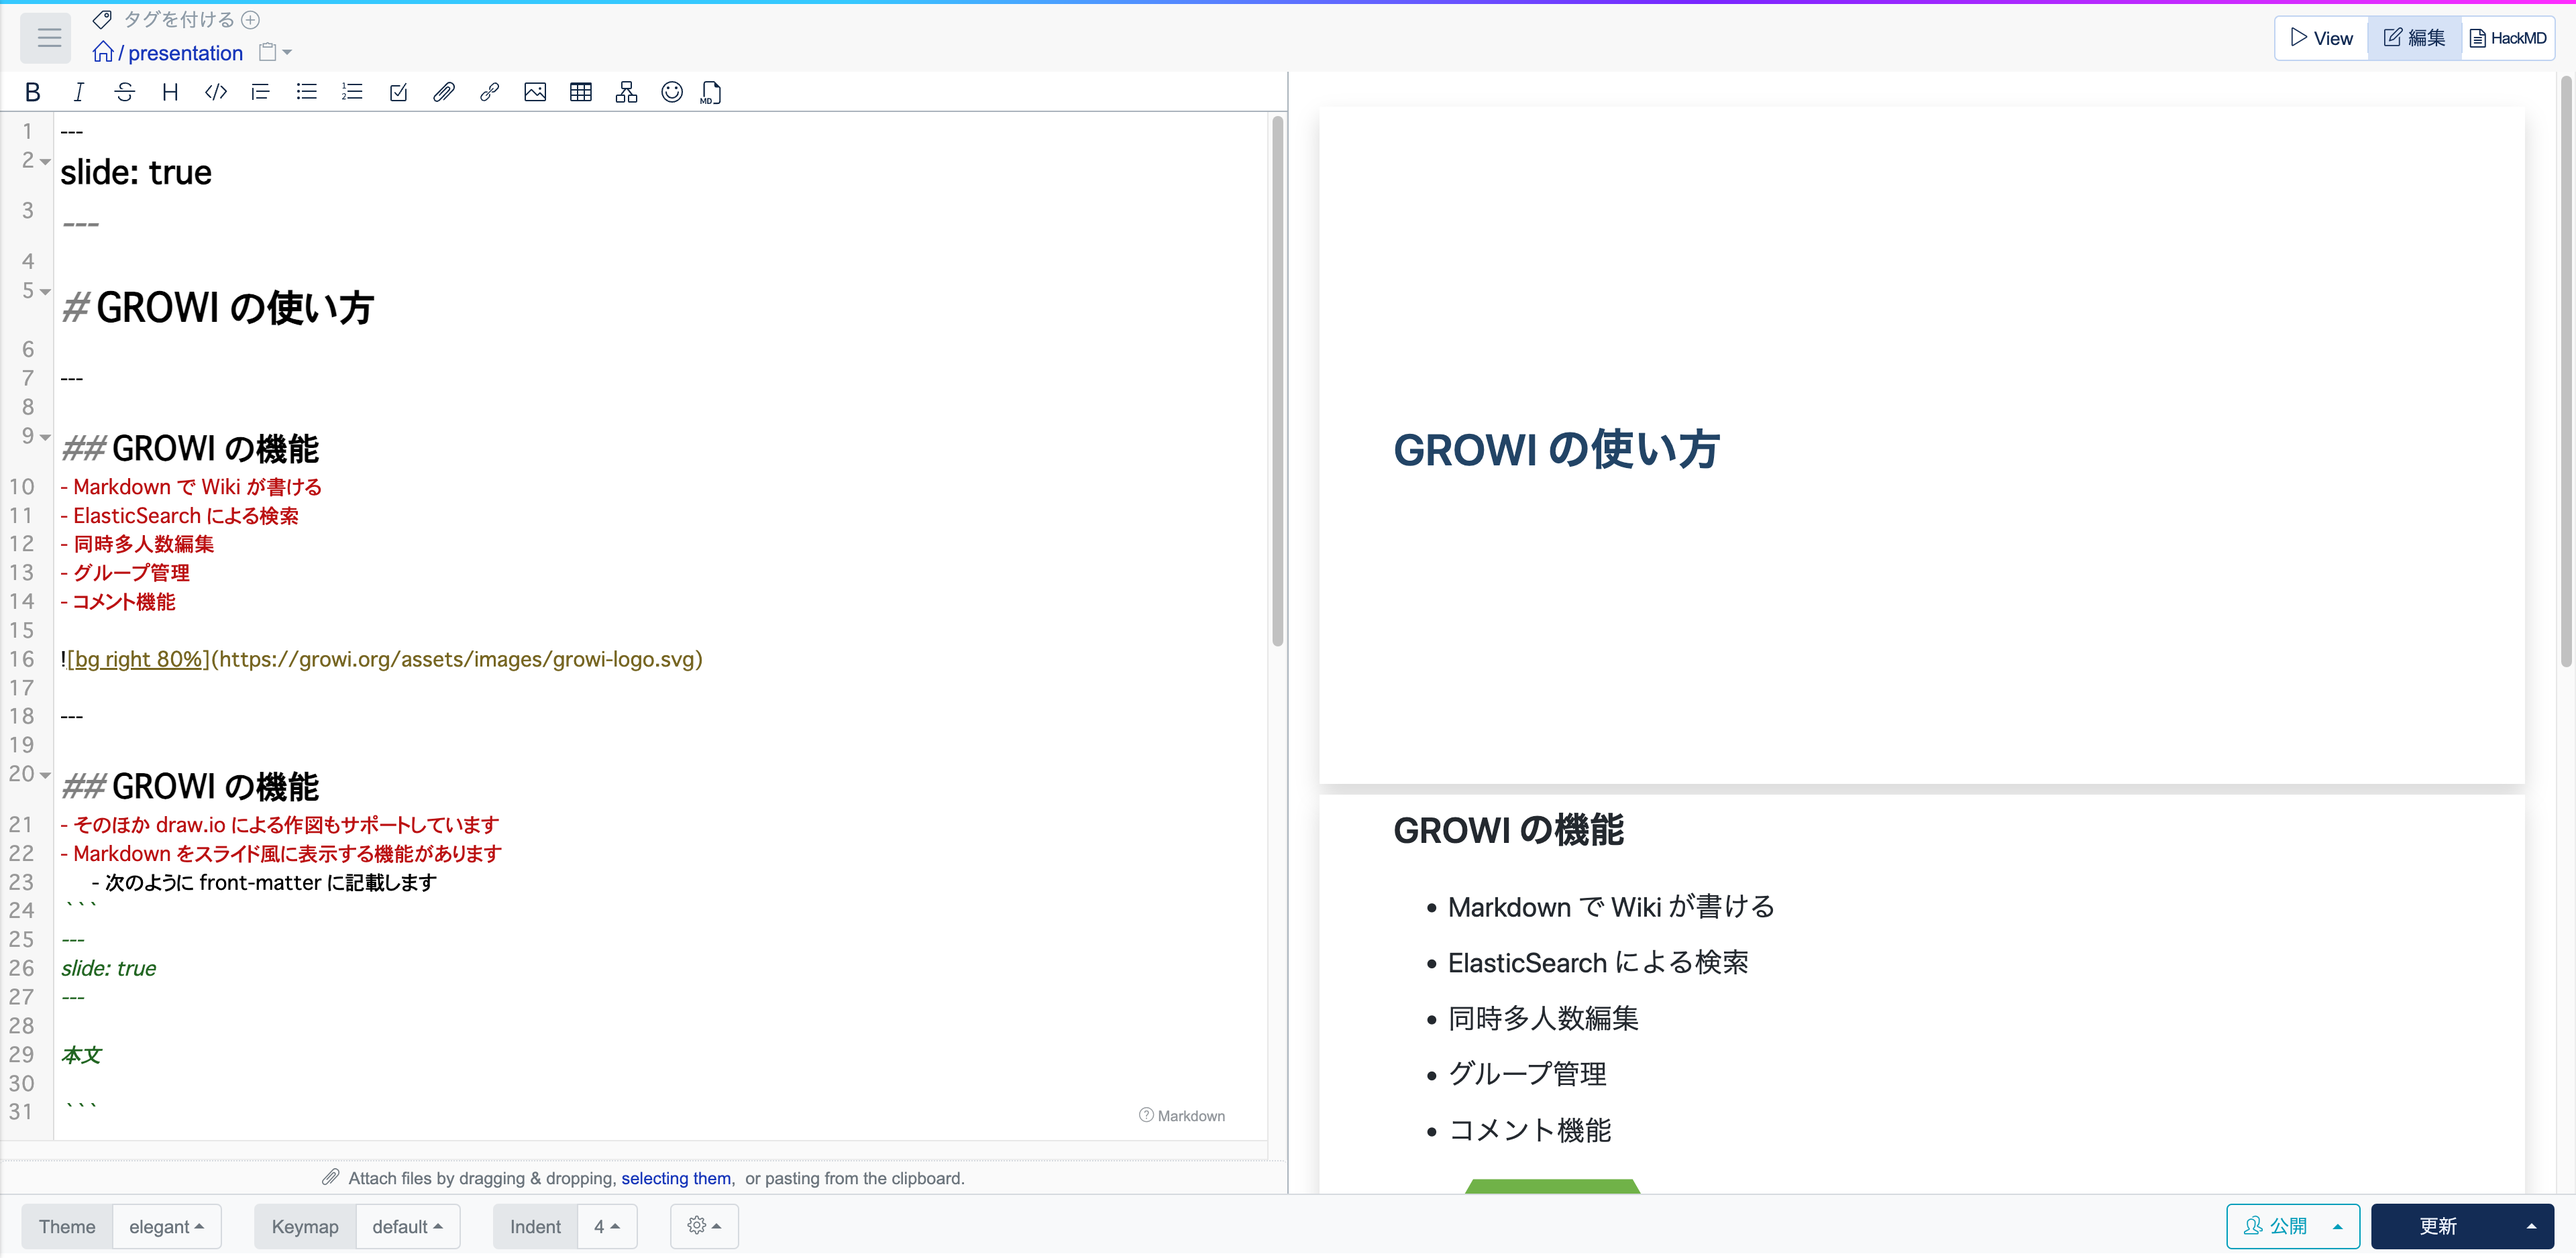
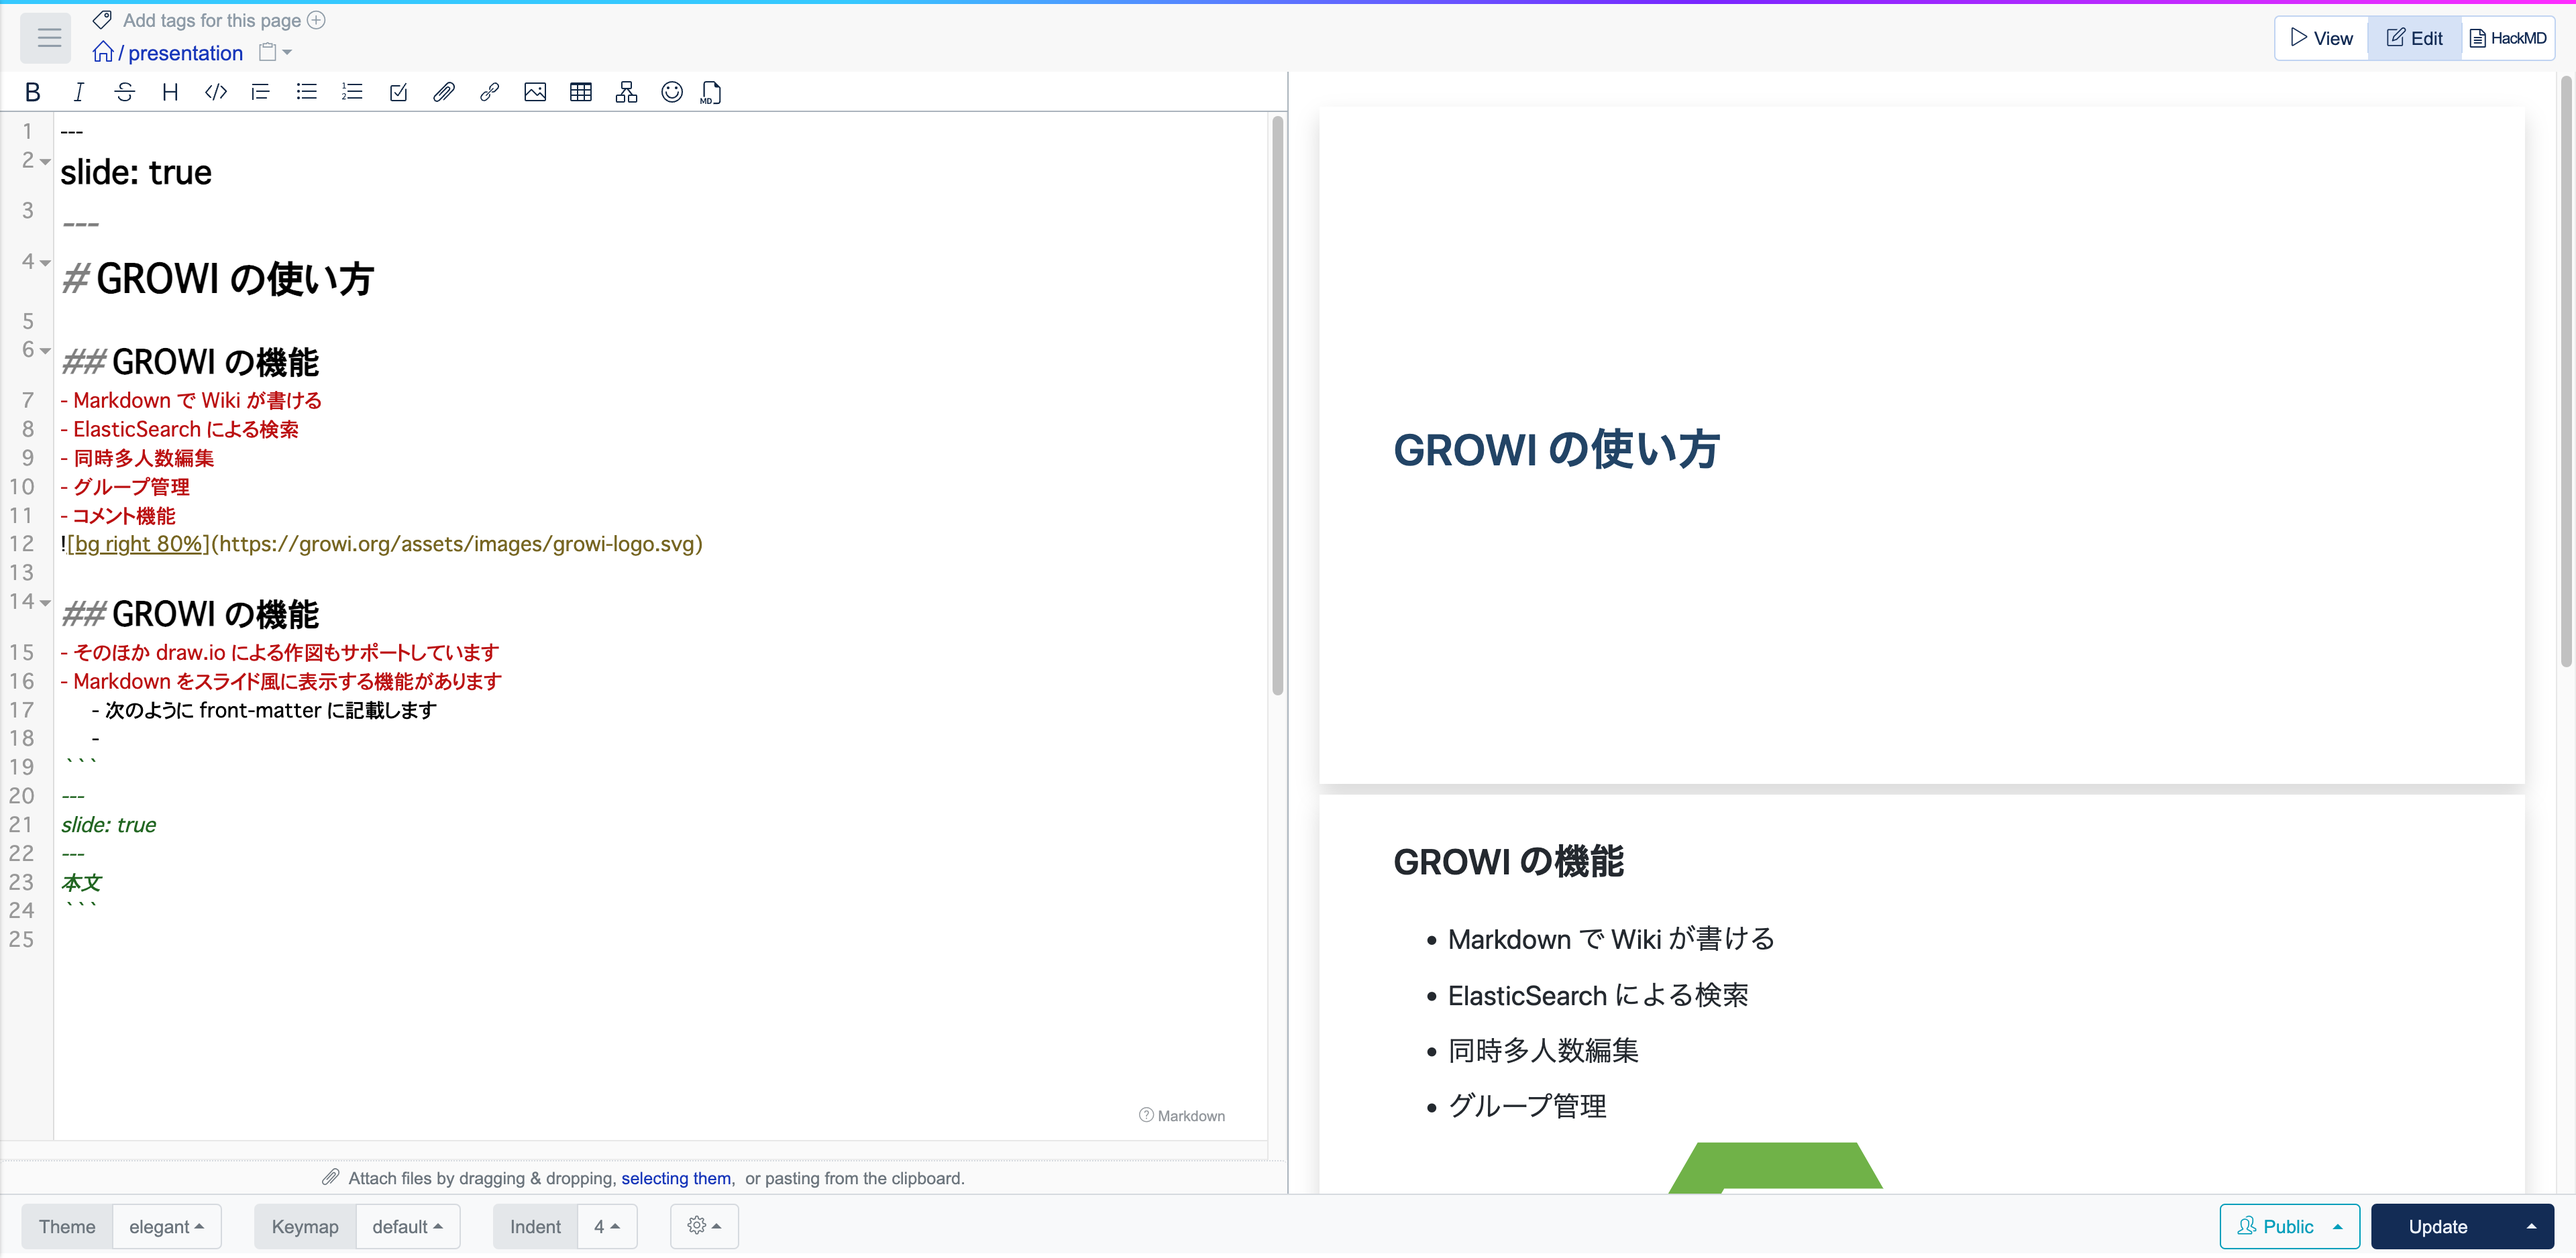
reflect FB

diff --git a/docs/en/guide/features/presentation.md b/docs/en/guide/features/presentation.md
@@ -2,31 +2,9 @@
 
 GROWI can automatically create slides for presentations. This feature allows you to automatically convert page content into slides and start a full-screen slide show without using other presentation software.
 
-There are two ways to create slides: using GROWI's default feature or using [Marp](https://marp.app/). [Marp](https://marp.app/) is a tool for creating presentation slides using Markdown.
+There are two ways to create slides: using GROWI's default feature or using [Marp](https://marp.app/). Marp is a tool for creating presentation slides using Markdown.
 
 Hereafter, slides created using the default GROWI feature will be called "GROWI slides" and slides created using Marp will be called "Marp slides".
-
-## Features of GROWI slides and Marp slides
-
-### GROWI Slide
-
-- No special settings or editing is required.
-- When you start a slideshow, a slide is automatically created for each page heading in Markdown (h1(#) and h2(##) are the slide splitter).
-- You can use GROWI's original features such as lsx.
-- Math, Mermaid, draw.io, etc. supported by GROWI can be displayed.
-
-### Marp Slide
-
-- All Marp syntax can be used.
-- You can create more beautiful slides by design settings, etc.
-- Slides can be displayed in View mode.
-- Slides can be previewed in Edit mode.
-
-<img :src="$withBase('/assets/images/en/marp.png')" alt="marp">
-
-::: tip
-Please refer to [here](/en/guide/features/presentation.html#create-slides-using-marp) for how to create Marp slides.
-:::
 
 ## Start the slideshow
 
@@ -38,25 +16,94 @@ Please refer to [here](/en/guide/features/presentation.html#create-slides-using-
 
 ::: tip
 If `marp: true` is set in the front-matter of the page, the Marp slide will be displayed; if not, the GROWI slide will be displayed.
-
-For more information about front-matter and Marp, please refer to [here](/en/guide/features/marp.html).
 :::
 
-## Create slides using Marp
+## View slides in view mode or preview in edit mode
+
+GROWI can render the page content as slides without using the presentation feature. (This feature is hereafter referred to as the slide view feature.)
+
+To use the slide view feature, include `slide: true` in the front-matter of the page.
+
+<img :src="$withBase('/assets/images/en/slide_preview.png')" alt="slideview">
+
+<img :src="$withBase('/assets/images/en/slide_view.png')" alt="slideview">
+
+### Example
+
+~~~slide view
+---
+slide: true
+---
+
+# How to use GROWI
+
+### GROWI Features
+- Wiki in Markdown
+- Search by ElasticSearch
+- Simultaneous editing by multiple users
+- Group management
+- Comment function
+
+![bg right 80%](https://growi.org/assets/images/growi-logo.svg)
+
+## GROWI Features
+- Drawing with draw.io
+- Markdown can be display as slides.
+
+```
+---
+slide: true
+---
+
+本文
+
+```
+~~~
+
+
+## GROWI slide and Marp slide
+
+### Features
+
+#### GROWI Slide
+
+- A slide is automatically created for each page heading in Markdown (h1(#) and h2(##) are the slide splitter).
+- GROWI's original syntax, such as lsx, can be used.
+- Math, Mermaid, draw.io, etc. supported by GROWI can be rendered.
+- Slides can be shown in view mode or preview in edit mode.
+
+#### Marp Slide
+
+- All Marp syntax can be used.
+- You can create more beautiful slides by design settings, etc.
+- Slides can be displayed in View mode.
+- Slides can be shown in view mode or preview in edit mode.
+
+::: tip
+Marp slides are compatible with [Marp for VS Code](https://github.com/marp-team/marp-vscode), so you can preview each other using the same Markdown file.
+:::
+
+### Create GROWI slides
+
+No special configuration or editing is required to use the Presentation feature. When you start a slideshow, it automatically converts the Markdown content into slides.
+
+If you want to view slides in View mode or Edit mode preview, please use [slide view feature](/en/guide/features/presentation.html##view-slides-in-view-mode-or-preview-in-edit-mode).
+
+### Create Marp slides
 
 :::tip
 To use this feature, the administrator must activate the Marp. For details on how to set it up, please refer to [here](/en/admin-guide/management-cookbook/marp.html).
 :::
 
-To use Marp, set `marp: true` in the front-matter of the page. (From GROWI v6.2.0 onwards, front-matter is not shown in preview and view mode regardless of whether Marp is true or false.)
+To use Marp, set `marp: true` in the front-matter of the page.
 
 Slides are split by a horizontal rule such as `---`. The horizontal ruler after the ending ruler of the front-matter is recognized as a slide splitter.
 
 Please refer to [Marpit Markdown](https://marpit.marp.app/markdown) for more information.
 
-<img :src="$withBase('/assets/images/en/marp.png')" alt="">
+<img :src="$withBase('/assets/images/en/marp.png')" alt="marp">
 
-### Example
+#### Example
 
 ~~~marp
 ---

diff --git a/docs/ja/guide/features/presentation.md b/docs/ja/guide/features/presentation.md
@@ -22,13 +22,13 @@ GROWIには、プレゼンテーション機能があります。この機能を
 
 GROWI では、プレゼンテーション機能を使わずにページの内容をスライド風に表示できます。(以下、スライドビュー機能と呼びます。)
 
-スライドビュー機能を利用するためには、ページ内の Frontmatter に `slide: true` を記載します。(v6.2.0以降、Frontmatter はプレビューや View モードでは表示されません。)
+スライドビュー機能を利用するためには、ページ内の Frontmatter に `slide: true` を記載します。
 
 <img :src="$withBase('/assets/images/ja/slide_preview.png')" alt="slideview">
 
 <img :src="$withBase('/assets/images/ja/slide_view.png')" alt="slideview">
 
-## 記法例
+### 記法例
 
 ~~~slide view
 ---
@@ -36,8 +36,6 @@ slide: true
 ---
 
 # GROWI の使い方
-
----
 
 ## GROWI の機能
 - Markdown で Wiki が書ける
@@ -47,8 +45,6 @@ slide: true
 - コメント機能
 
 ![bg right 80%](https://growi.org/assets/images/growi-logo.svg)
-
----
 
 ## GROWI の機能
 - そのほか draw.io による作図もサポートしています
@@ -66,12 +62,11 @@ slide: true
 
 ## GROWI スライドと Marp スライド
 
-
 ### 各スライドの特徴
 
 #### GROWI スライド
 
-- Markdown で記載されたページの見出しごとにスライドが自動で作成されます。 (対象の見出しは h1(#) と h2(##) です。)
+- Markdown で記載されたページの見出しごとにスライドが自動で作成されます。対象の見出しは h1(#) と h2(##) です。
 - lsx などの GROWI 独自の記法が使えます。
 - GROWI で対応している Math、Mermaid、draw.io などが表示できます。
 - View モードや編集モードのプレビューでスライドを表示できます。
@@ -88,7 +83,9 @@ Marp スライドは、[Marp for VS Code](https://github.com/marp-team/marp-vsco
 
 ### GROWI スライドの使い方
 
-プレゼンテーション機能を使う場合は、特別な設定や編集をする必要はありません。スライドショーを開始すると、自動で Markdown の内容をスライド化します。View モードや編集モードのプレビューでスライドを表示したい場合は、[スライドビュー機能](/ja/guide/features/presentation.html#view-モードや編集モードのプレビューでスライドを表示する) をご利用ください。
+プレゼンテーション機能を使う場合は、特別な設定や編集をする必要はありません。スライドショーを開始すると、自動で Markdown の内容をスライド化します。
+
+View モードや編集モードのプレビューでスライドを表示したい場合は、[スライドビュー機能](/ja/guide/features/presentation.html#view-モードや編集モードのプレビューでスライドを表示する) をご利用ください。
 
 ### Marp スライドの使い方
 
@@ -102,7 +99,9 @@ Marp を利用するためには、ページ内の Frontmatter に `marp: true` 
 
 その他の具体的な記法は [Marpit Markdown](https://marpit.marp.app/markdown) などをご参照ください。
 
-## 記法例
+<img :src="$withBase('/assets/images/ja/marp.png')" alt="marp">
+
+#### 記法例
 
 ~~~marp
 ---
